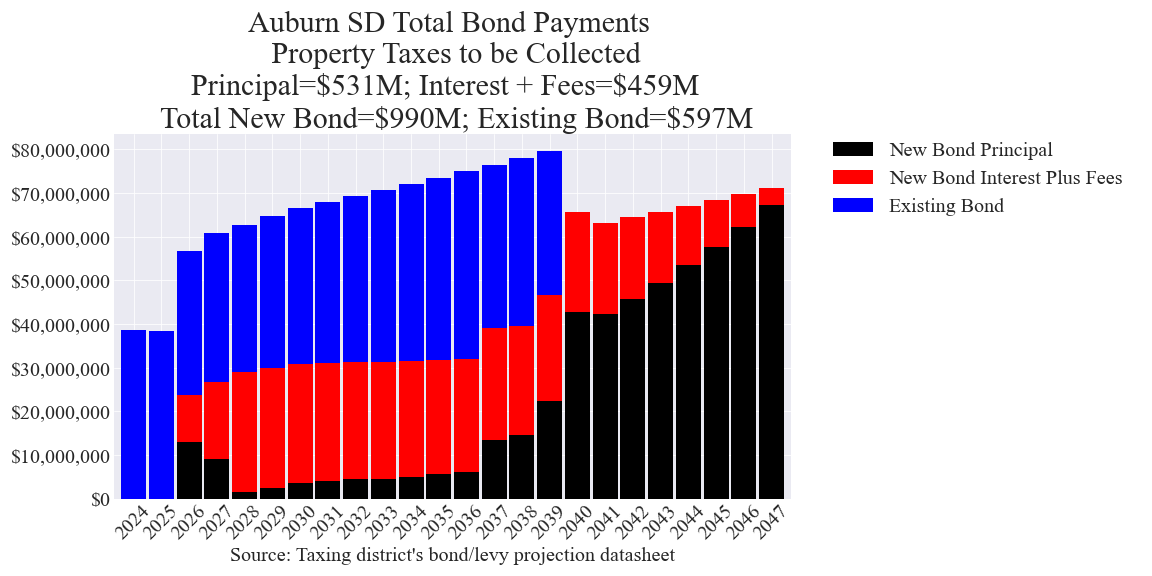
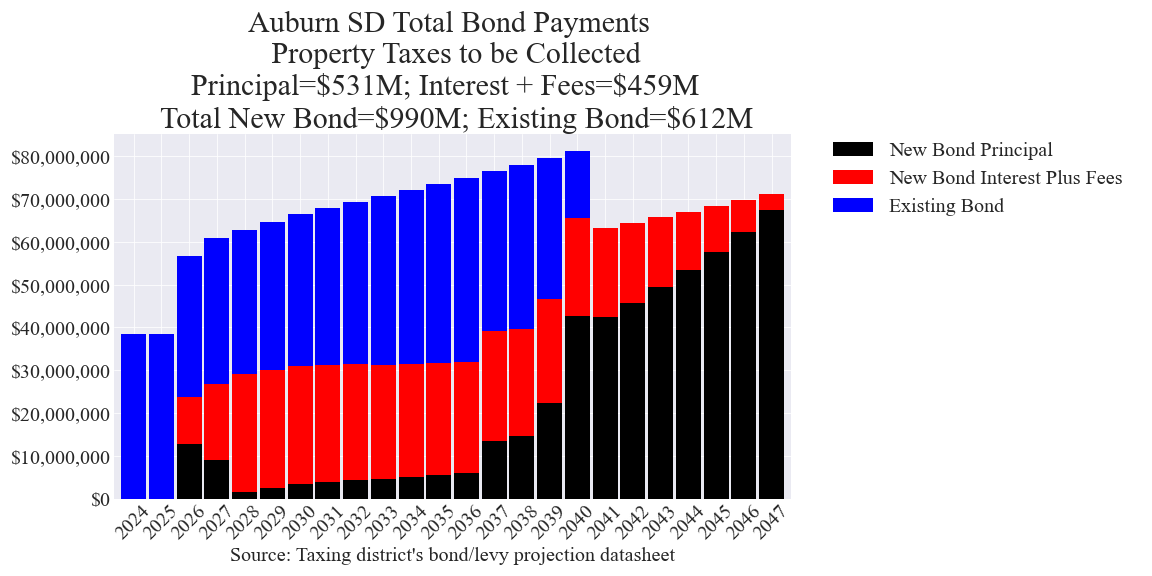
Update elec 20241105
Mod:
Auburn

diff --git a/_includes/cost_estimates/20241105/Auburn_20241105_Enhanced.html b/_includes/cost_estimates/20241105/Auburn_20241105_Enhanced.html
@@ -181,7 +181,7 @@
 			['2037', 37349000, 39159000, 0, 7541000, 0, 0, 0, 69798000, 0, 0],
 			['2038', 38472000, 39561000, 0, 7692000, 0, 0, 0, 71194000, 0, 0],
 			['2039', 33019000, 46576000, 0, 7846000, 0, 0, 0, 72618000, 0, 0],
-			['2040', 0, 65679000, 0, 8003000, 0, 0, 0, 74070000, 0, 0],
+			['2040', 15507000, 65679000, 0, 8003000, 0, 0, 0, 74070000, 0, 0],
 			['2041', 0, 63164000, 0, 8163000, 0, 0, 0, 75552000, 0, 0],
 			['2042', 0, 64427000, 0, 8326000, 0, 0, 0, 77063000, 0, 0],
 			['2043', 0, 65717000, 0, 8493000, 0, 0, 0, 78604000, 0, 0],
@@ -291,7 +291,7 @@
 			['2037', 37349000, 39159000, 0, 7541000, 0, 0, 0, 69798000, 0, 0],
 			['2038', 38472000, 39561000, 0, 7692000, 0, 0, 0, 71194000, 0, 0],
 			['2039', 33019000, 46576000, 0, 7846000, 0, 0, 0, 72618000, 0, 0],
-			['2040', 0, 65679000, 0, 8003000, 0, 0, 0, 74070000, 0, 0],
+			['2040', 15507000, 65679000, 0, 8003000, 0, 0, 0, 74070000, 0, 0],
 			['2041', 0, 63164000, 0, 8163000, 0, 0, 0, 75552000, 0, 0],
 			['2042', 0, 64427000, 0, 8326000, 0, 0, 0, 77063000, 0, 0],
 			['2043', 0, 65717000, 0, 8493000, 0, 0, 0, 78604000, 0, 0],
